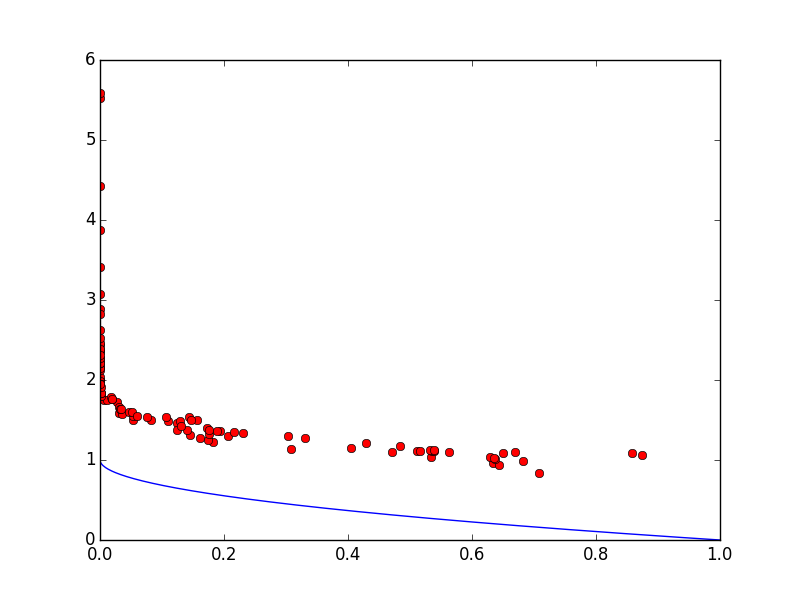
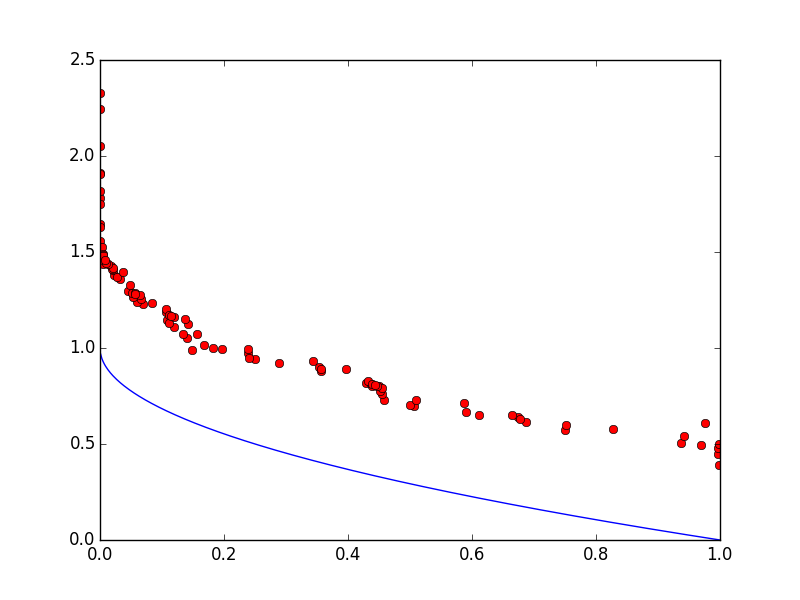
Noved convergence and diversity to algorithm

diff --git a/utils/algorithm.py b/utils/algorithm.py
@@ -1,5 +1,7 @@
+from __future__ import print_function, division
 __author__ = 'panzer'
-
+import sys
+import numpy as np
 from lib import O
 
 class Algorithm(O):
@@ -10,11 +12,78 @@ class Algorithm(O):
     :param problem: Instance of the problem
     :return:
     """
+    O.__init__(self)
     self.name = name
     self.problem = problem
     self.select = None
     self.evolve = None
     self.recombine = None
+
+  def convergence(self, obtained):
+    """
+    Calculate the convergence metric with respect to ideal
+    solutions
+    """
+    problem = self.problem
+    if problem.constraints:
+      return
+    ideals = problem.get_ideal_objectives()
+    for o in obtained:
+      if not o.objectives:
+        o.objectives = self.problem.evaluate(o.decisions)
+    predicts = [o.objectives for o in obtained]
+    gammas = []
+    for predict in predicts:
+      gammas.append(min([problem.dist(predict, ideal, one_norm = True, two_norm = True) for ideal in ideals]))
+    return np.mean(gammas)
+
+  @staticmethod
+  def solution_range(obtained):
+    """
+    Calculate the range for each objective
+    """
+    predicts = [o.objectives for o in obtained]
+    solutions = [[] for _ in range(len(predicts[0]))]
+    for predict in predicts:
+      for i in range(len(predict)):
+        solutions[i].append(predict[i])
+    for i, solution in enumerate(solutions):
+      print("Objective :",i,
+            "   Max = ", max(solutions[i]),
+            "   Min = ", min(solutions[i]))
+
+  def diversity(self, obtained):
+    """
+    Calculate the diversity of the spread for a
+    set of solutions
+    """
+    def closest(one, many):
+      min_dist = sys.maxint
+      closest_point = None
+      for this in many:
+        dist = self.problem.dist(this, one, one_norm = True, two_norm = True)
+        if dist < min_dist:
+          min_dist = dist
+          closest_point = this
+      return min_dist, closest_point
+
+    problem = self.problem
+    if problem.constraints:
+      return
+    ideals = problem.get_ideal_objectives()
+    for o in obtained:
+      if not o.objectives:
+        o.objectives = problem.evaluate(o.decisions)
+    predicts = [o.objectives for o in obtained]
+    d_f = closest(ideals[0], predicts)[0]
+    d_l = closest(ideals[-1], predicts)[0]
+    distances = []
+    for i in range(len(predicts)-1):
+      distances.append(problem.dist(predicts[i], predicts[i+1], one_norm = True, two_norm = True))
+    d_bar = np.mean(distances)
+    d_sum = sum([abs(d_i - d_bar) for d_i in distances])
+    delta = (d_f + d_l + d_sum) / (d_f + d_l + (len(predicts) - 1)*d_bar)
+    return delta
 
   def run(self):
     pass

diff --git a/nsga2/NSGA2.py b/nsga2/NSGA2.py
@@ -4,7 +4,6 @@ import os
 sys.path.append(os.path.abspath("."))
 from utils.lib import *
 from utils.algorithm import Algorithm
-import numpy as np
 
 def settings():
   """
@@ -288,62 +287,4 @@ class NSGA2(Algorithm):
 
     return mutant
 
-  def convergence(self, obtained):
-    """
-    Calculate the convergence metric with respect to ideal
-    solutions
-    """
-    problem = self.problem
-    if problem.constraints:
-      return
-    ideals = problem.get_ideal_objectives()
-    predicts = [o.objectives for o in obtained]
-    gammas = []
-    for predict in predicts:
-      gammas.append(min([problem.dist(predict, ideal, one_norm = True, two_norm = True) for ideal in ideals]))
-    return np.mean(gammas)
 
-  @staticmethod
-  def solution_range(obtained):
-    """
-    Calculate the range for each objective
-    """
-    predicts = [o.objectives for o in obtained]
-    solutions = [[] for _ in range(len(predicts[0]))]
-    for predict in predicts:
-      for i in range(len(predict)):
-        solutions[i].append(predict[i])
-    for i, solution in enumerate(solutions):
-      print("Objective :",i,
-            "   Max = ", max(solutions[i]),
-            "   Min = ", min(solutions[i]))
-
-  """
-  Calculate the diversity of the spread for a
-  set of solutions
-  """
-  def diversity(self, obtained):
-    def closest(one, many):
-      min_dist = sys.maxint
-      closest_point = None
-      for this in many:
-        dist = self.problem.dist(this, one, one_norm = True, two_norm = True)
-        if dist < min_dist:
-          min_dist = dist
-          closest_point = this
-      return min_dist, closest_point
-
-    problem = self.problem
-    if problem.constraints:
-      return
-    ideals = problem.get_ideal_objectives()
-    predicts = [o.objectives for o in obtained]
-    d_f = closest(ideals[0], predicts)[0]
-    d_l = closest(ideals[-1], predicts)[0]
-    distances = []
-    for i in range(len(predicts)-1):
-      distances.append(problem.dist(predicts[i], predicts[i+1], one_norm = True, two_norm = True))
-    d_bar = np.mean(distances)
-    d_sum = sum([abs(d_i - d_bar) for d_i in distances])
-    delta = (d_f + d_l + d_sum) / (d_f + d_l + (len(predicts) - 1)*d_bar)
-    return delta

diff --git a/problems/ZDT1.py b/problems/ZDT1.py
@@ -61,17 +61,18 @@ class ZDT1(Problem):
 
 
 def _run_once():
-  import nsga2.NSGA2 as optimizer
+  import gale.GALE as optimizer
   import random
+  algo = optimizer.GALE
   random.seed(1)
   o = ZDT1()
   o.populate(optimizer.settings().pop_size)
-  nsga2 = optimizer.NSGA2(o, gens=20)
-  goods = nsga2.run()
-  print(nsga2.convergence(goods))
-  print(nsga2.diversity(goods))
-  nsga2.solution_range(goods)
-  o.plot(goods)
+  opt = algo(o, gens=100)
+  goods = opt.run()
+  print(opt.convergence(goods))
+  print(opt.diversity(goods))
+  opt.solution_range(goods)
+  o.plot(goods, file_path="figures/"+opt.name+".png")
 
 def _run_many():
   import nsga2.NSGA2 as optimizer
@@ -81,10 +82,10 @@ def _run_many():
   for _ in range(1):
     o = ZDT1()
     o.populate(optimizer.settings().pop_size)
-    nsga2 = optimizer.NSGA2(o, gens=20)
-    goods = nsga2.run()
-    gammas.append(nsga2.convergence(goods))
-    deltas.append(nsga2.diversity(goods))
+    opt = optimizer.NSGA2(o, gens=250)
+    goods = opt.run()
+    gammas.append(opt.convergence(goods))
+    deltas.append(opt.diversity(goods))
   print(np.mean(gammas), np.var(gammas))
   print(np.mean(deltas), np.var(deltas))
 

diff --git a/gale/where.py b/gale/where.py
@@ -214,9 +214,10 @@ class Node(BinaryTree):
     :param pop:
     :return:
     """
+    # TODO - I swapped east and west from the original
     self.x = pop[cut].x
-    self.east = pop[0]
-    self.west = pop[-1]
+    self.west = pop[0]
+    self.east = pop[-1]
     return pop[:cut], pop[cut:]
 
   def divide(self, threshold, abort = False):

diff --git a/gale/GALE.py b/gale/GALE.py
@@ -56,7 +56,7 @@ class GALE(Algorithm):
       population, evals = self.recombine(selectees, settings().pop_size)
       total_evals += evals
       gen += 1
-
+    print("")
     return population
 
 
